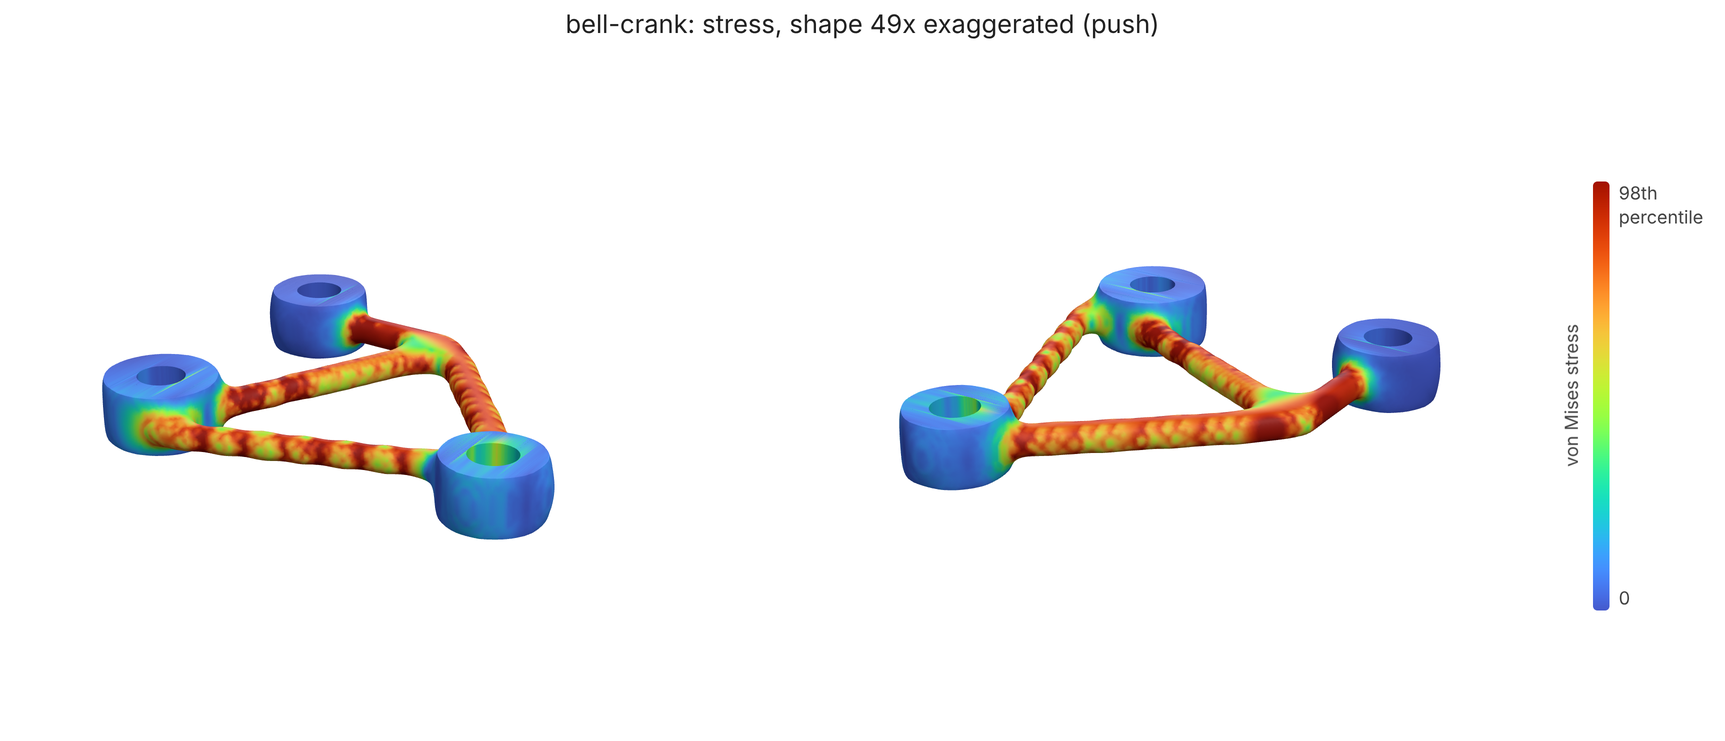
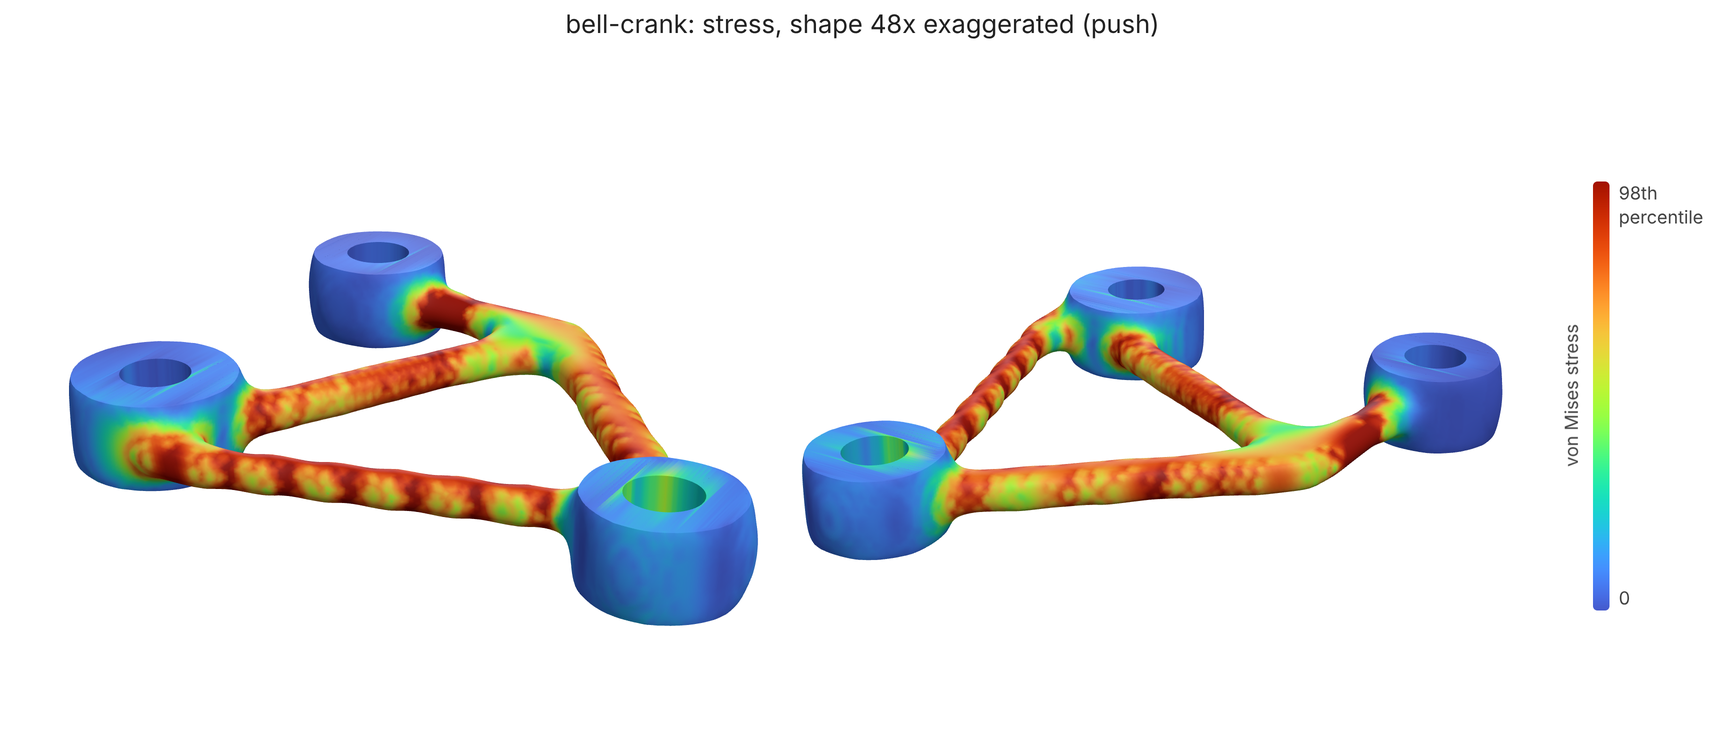
WIP: gallery renders

Changed region(s): [[0.0307, 0.3104, 0.891, 0.8691]]

diff --git a/docs/gallery.py b/docs/gallery.py
@@ -158,7 +158,7 @@ def render_case(row, evals, stress):
         bent = trimesh.Trimesh(mesh.vertices + k * disp, mesh.faces, process=False)
         colors = ramp((w * vm_nodes[idx]).sum(axis=1) / scale)
         bar = ("von Mises stress", "0", "98th percentile")
-        s = Scene(panel_size=(600, 520), colorbar=bar)
+        s = Scene(panel_size=(600, 520))     # the README says what the colours mean
         _study_panel(s, None, bent, VIEWS[0], vertex_colors=colors)
         out["stressThumb"] = _crop(s.render(os.path.join(IMAGES, "stress", f"{name}.png")))
         s = Scene(f"{name}: stress, shape {k:.0f}x exaggerated ({worst['name']})" if k else name,
@@ -275,7 +275,7 @@ def write_docs(rows, evals):
     stress = [r for r in cases if exist("stress", f"{r['case']}.png")]
     stress = ([r for r in stress if r["case"] in STRESS_PICKS] or stress)[:COLS]
     if stress:
-        readme += ["", "Where the load goes: von Mises stress on the part bent by its worst load case:", "",
+        readme += ["", "Where the load goes: von Mises stress, blue (none) to red (the part's 98th percentile), on the part bent by its worst load case:", "",
                    _grid([(img("stress", f"{r['case']}.png"), f"<sub>{r['case']}</sub>") for r in stress], width=250)]
     hx = [(n, cap) for n, cap, *_ in HEATX if exist("heatx", f"{n}.png")]
     if hx:

diff --git a/docs/GALLERY.md b/docs/GALLERY.md
@@ -1,34 +1,34 @@
 # Gallery
 
-Rendered 2026-10-29 from `f5b3a9d` by `python docs/gallery.py`.
+Rendered 2026-10-30 from `a88710c` by `python docs/gallery.py`.
 
 Regenerate with the commands at the top of [`gallery.py`](gallery.py). Stress maps colour worst-case von Mises stress against the part's own 98th percentile, to show the load paths, on the shape bent by the worst load case, exaggerated; the margin against the material is the SF.
-
-## arm-link
-
-58.9 g · 53% lighter · SF 13.19 · pass
-
-<sub>deflection 0.450 mm · p5Member 3.47 mm · creaseLength 0.0 mm · volumeFraction 39% · 0 s</sub>
-
-![arm-link](images/cases/arm-link-views.png)
-
-![arm-link stress](images/stress/arm-link-views.png)
 
 ## arm-link-driven
 
 46.2 g · 63% lighter · SF 7.98 · pass
 
-<sub>deflection 0.494 mm · p5Member 3.41 mm · creaseLength 0.0 mm · volumeFraction 28% · 0 s</sub>
+<sub>deflection 0.494 mm · p5Member 3.41 mm · creaseLength 0.0 mm · volumeFraction 28% · 1782 s</sub>
 
 ![arm-link-driven](images/cases/arm-link-driven-views.png)
 
 ![arm-link-driven stress](images/stress/arm-link-driven-views.png)
 
+## arm-link
+
+58.9 g · 53% lighter · SF 14.78 · pass
+
+<sub>deflection 0.450 mm · p5Member 3.47 mm · creaseLength 0.0 mm · volumeFraction 39% · 1344 s</sub>
+
+![arm-link](images/cases/arm-link-views.png)
+
+![arm-link stress](images/stress/arm-link-views.png)
+
 ## bell-crank
 
-25.2 g · 83% lighter · SF 3.44 · pass
+24.8 g · 84% lighter · SF 3.50 · pass
 
-<sub>deflection 0.056 mm · p5Member 4.19 mm · creaseLength 0.0 mm · volumeFraction 8% · 0 s</sub>
+<sub>deflection 0.058 mm · p5Member 4.19 mm · creaseLength 0.0 mm · volumeFraction 7% · 1324 s</sub>
 
 ![bell-crank](images/cases/bell-crank-views.png)
 
@@ -36,9 +36,9 @@ Regenerate with the commands at the top of [`gallery.py`](gallery.py). Stress ma
 
 ## grip-turret
 
-172.8 g · 90% lighter · SF 2.33 · pass
+148.8 g · 91% lighter · SF 2.54 · pass
 
-<sub>deflection 0.382 mm · p5Member 5.49 mm · creaseLength 44.7 mm · volumeFraction 4% · 0 s</sub>
+<sub>deflection 0.532 mm · p5Member 5.49 mm · creaseLength 33.1 mm · volumeFraction 2% · 1920 s</sub>
 
 ![grip-turret](images/cases/grip-turret-views.png)
 
@@ -46,73 +46,13 @@ Regenerate with the commands at the top of [`gallery.py`](gallery.py). Stress ma
 
 ## grip-upper-arm
 
-207.9 g · 88% lighter · SF 7.18 · pass
+207.7 g · 88% lighter · SF 7.71 · pass
 
-<sub>deflection 0.513 mm · p5Member 4.96 mm · creaseLength 38.2 mm · volumeFraction 7% · 1728 s</sub>
+<sub>deflection 0.513 mm · p5Member 4.95 mm · creaseLength 32.8 mm · volumeFraction 7% · 2900 s</sub>
 
 ![grip-upper-arm](images/cases/grip-upper-arm-views.png)
 
 ![grip-upper-arm stress](images/stress/grip-upper-arm-views.png)
-
-## grip-wrist-yoke
-
-17.7 g · 92% lighter · SF 3.10 · pass
-
-<sub>deflection 0.152 mm · p5Member 1.46 mm · creaseLength 2.9 mm · volumeFraction 8% · 957 s</sub>
-
-![grip-wrist-yoke](images/cases/grip-wrist-yoke-views.png)
-
-![grip-wrist-yoke stress](images/stress/grip-wrist-yoke-views.png)
-
-## mbb-beam
-
-26.4 g · 60% lighter · SF 1.56 · pass
-
-<sub>deflection 1.669 mm · p5Member 2.65 mm · creaseLength 0.0 mm · volumeFraction 40% · 994 s</sub>
-
-![mbb-beam](images/cases/mbb-beam-views.png)
-
-![mbb-beam stress](images/stress/mbb-beam-views.png)
-
-## motor-mount
-
-27.5 g · 69% lighter · SF 2.73 · pass
-
-<sub>deflection 0.322 mm · p5Member 1.46 mm · creaseLength 0.8 mm · volumeFraction 30% · 297 s</sub>
-
-![motor-mount](images/cases/motor-mount-views.png)
-
-![motor-mount stress](images/stress/motor-mount-views.png)
-
-## printed-hook
-
-31.3 g · 79% lighter · SF 2.95 · pass
-
-<sub>deflection 0.624 mm · p5Member 3.41 mm · creaseLength 0.0 mm · volumeFraction 20% · 398 s</sub>
-
-![printed-hook](images/cases/printed-hook-views.png)
-
-![printed-hook stress](images/stress/printed-hook-views.png)
-
-## wall-bracket
-
-61.3 g · 85% lighter · SF 4.37 · pass
-
-<sub>deflection 0.096 mm · p5Member 4.55 mm · creaseLength 0.0 mm · volumeFraction 11% · 519 s</sub>
-
-![wall-bracket](images/cases/wall-bracket-views.png)
-
-![wall-bracket stress](images/stress/wall-bracket-views.png)
-
-## wall-bracket-fasteners
-
-47.3 g · 89% lighter · SF 3.59 · pass
-
-<sub>deflection 0.166 mm · p5Member 4.55 mm · creaseLength 0.0 mm · volumeFraction 8% · 448 s</sub>
-
-![wall-bracket-fasteners](images/cases/wall-bracket-fasteners-views.png)
-
-![wall-bracket-fasteners stress](images/stress/wall-bracket-fasteners-views.png)
 
 ## Heat exchangers
 

diff --git a/README.md b/README.md
@@ -34,27 +34,17 @@ for the method, the study format, goals and limits.
 
 ## Examples
 
-The eval cases (11/11 passing): GRIP robot-arm style parts, each optimized and then checked by a fresh FEA of the delivered mesh. Blue arrows are loads, red is keep-out. Every view, stress map and number is in [docs/GALLERY.md](docs/GALLERY.md).
+The eval cases (6/6 passing): GRIP robot-arm style parts, each optimized and then checked by a fresh FEA of the delivered mesh. Blue arrows are loads, red is keep-out. Every view, stress map and number is in [docs/GALLERY.md](docs/GALLERY.md).
 
 <table>
 <tr>
-<td align="center" valign="top"><img src="docs/images/cases/arm-link.png" width="250"><br><b>arm-link</b><br><sub>58.9 g · 53% lighter · SF 13.19 · pass</sub></td>
 <td align="center" valign="top"><img src="docs/images/cases/arm-link-driven.png" width="250"><br><b>arm-link-driven</b><br><sub>46.2 g · 63% lighter · SF 7.98 · pass</sub></td>
-<td align="center" valign="top"><img src="docs/images/cases/bell-crank.png" width="250"><br><b>bell-crank</b><br><sub>25.2 g · 83% lighter · SF 3.44 · pass</sub></td>
+<td align="center" valign="top"><img src="docs/images/cases/arm-link.png" width="250"><br><b>arm-link</b><br><sub>58.9 g · 53% lighter · SF 14.78 · pass</sub></td>
+<td align="center" valign="top"><img src="docs/images/cases/bell-crank.png" width="250"><br><b>bell-crank</b><br><sub>24.8 g · 84% lighter · SF 3.50 · pass</sub></td>
 </tr>
 <tr>
-<td align="center" valign="top"><img src="docs/images/cases/grip-turret.png" width="250"><br><b>grip-turret</b><br><sub>172.8 g · 90% lighter · SF 2.33 · pass</sub></td>
-<td align="center" valign="top"><img src="docs/images/cases/grip-upper-arm.png" width="250"><br><b>grip-upper-arm</b><br><sub>207.9 g · 88% lighter · SF 7.18 · pass</sub></td>
-<td align="center" valign="top"><img src="docs/images/cases/grip-wrist-yoke.png" width="250"><br><b>grip-wrist-yoke</b><br><sub>17.7 g · 92% lighter · SF 3.10 · pass</sub></td>
-</tr>
-<tr>
-<td align="center" valign="top"><img src="docs/images/cases/mbb-beam.png" width="250"><br><b>mbb-beam</b><br><sub>26.4 g · 60% lighter · SF 1.56 · pass</sub></td>
-<td align="center" valign="top"><img src="docs/images/cases/motor-mount.png" width="250"><br><b>motor-mount</b><br><sub>27.5 g · 69% lighter · SF 2.73 · pass</sub></td>
-<td align="center" valign="top"><img src="docs/images/cases/printed-hook.png" width="250"><br><b>printed-hook</b><br><sub>31.3 g · 79% lighter · SF 2.95 · pass</sub></td>
-</tr>
-<tr>
-<td align="center" valign="top"><img src="docs/images/cases/wall-bracket.png" width="250"><br><b>wall-bracket</b><br><sub>61.3 g · 85% lighter · SF 4.37 · pass</sub></td>
-<td align="center" valign="top"><img src="docs/images/cases/wall-bracket-fasteners.png" width="250"><br><b>wall-bracket-fasteners</b><br><sub>47.3 g · 89% lighter · SF 3.59 · pass</sub></td>
+<td align="center" valign="top"><img src="docs/images/cases/grip-turret.png" width="250"><br><b>grip-turret</b><br><sub>148.8 g · 91% lighter · SF 2.54 · pass</sub></td>
+<td align="center" valign="top"><img src="docs/images/cases/grip-upper-arm.png" width="250"><br><b>grip-upper-arm</b><br><sub>207.7 g · 88% lighter · SF 7.71 · pass</sub></td>
 </tr>
 </table>
 
@@ -64,7 +54,6 @@ Where the load goes: von Mises stress on the part bent by its worst load case:
 <tr>
 <td align="center" valign="top"><img src="docs/images/stress/bell-crank.png" width="250"><br><sub>bell-crank</sub></td>
 <td align="center" valign="top"><img src="docs/images/stress/grip-upper-arm.png" width="250"><br><sub>grip-upper-arm</sub></td>
-<td align="center" valign="top"><img src="docs/images/stress/printed-hook.png" width="250"><br><sub>printed-hook</sub></td>
 </tr>
 </table>
 
@@ -76,7 +65,7 @@ Printed in metal, nothing inside can be supported: the channels end in peaked ro
 
 ![metal ceilings](docs/images/heatx/lpbf-ceilings.png)
 
-<sub>Rendered 2026-10-29 from `f5b3a9d` by `python docs/gallery.py`.</sub>
+<sub>Rendered 2026-10-30 from `a88710c` by `python docs/gallery.py`.</sub>
 
 <!-- gallery:end -->
 
